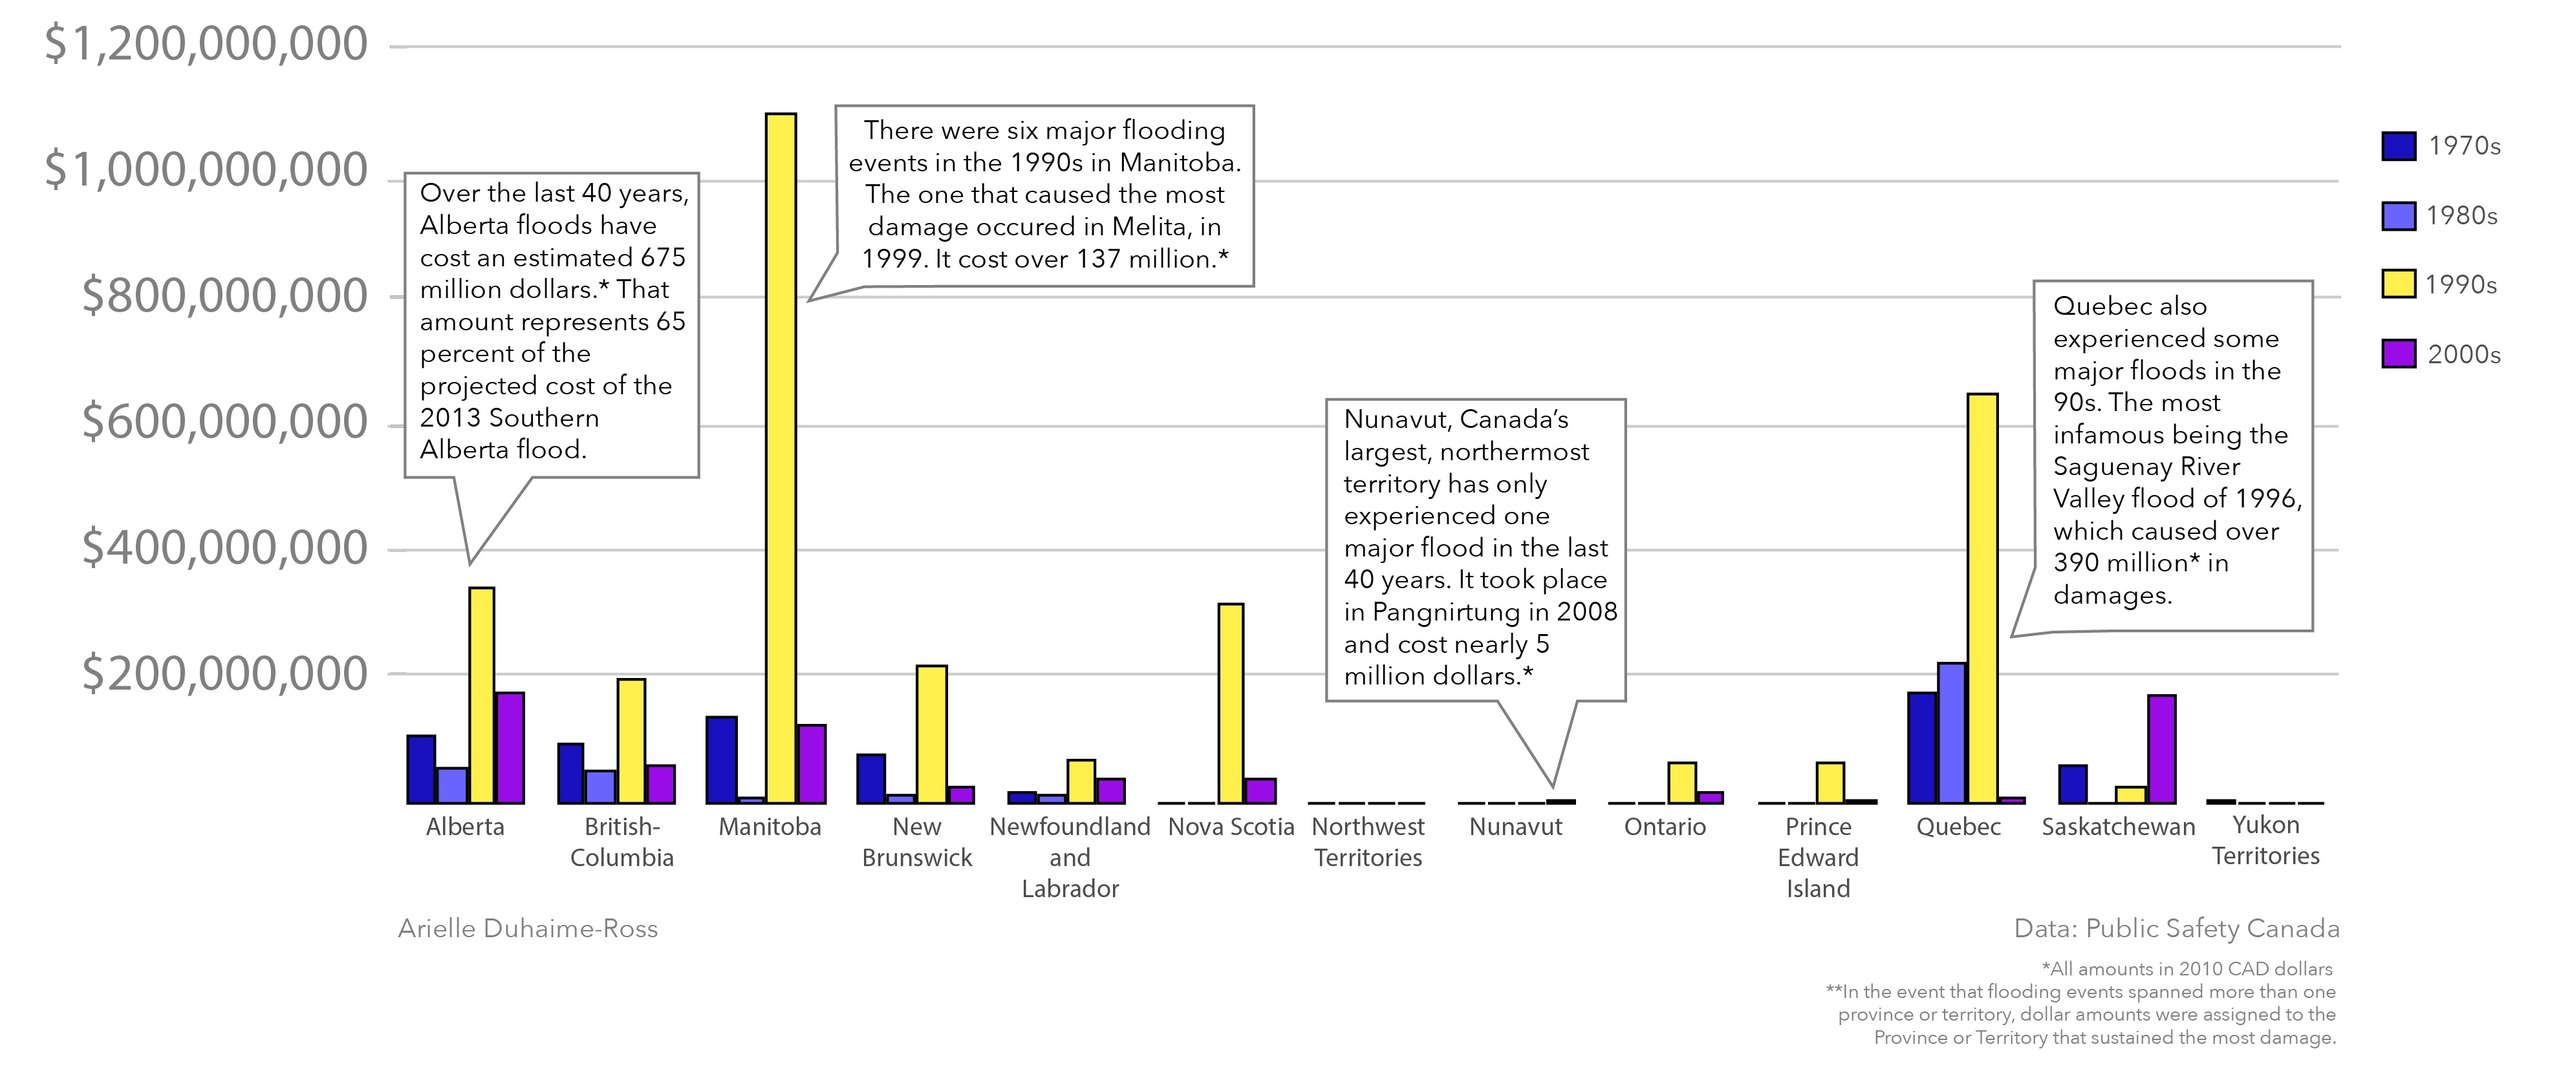
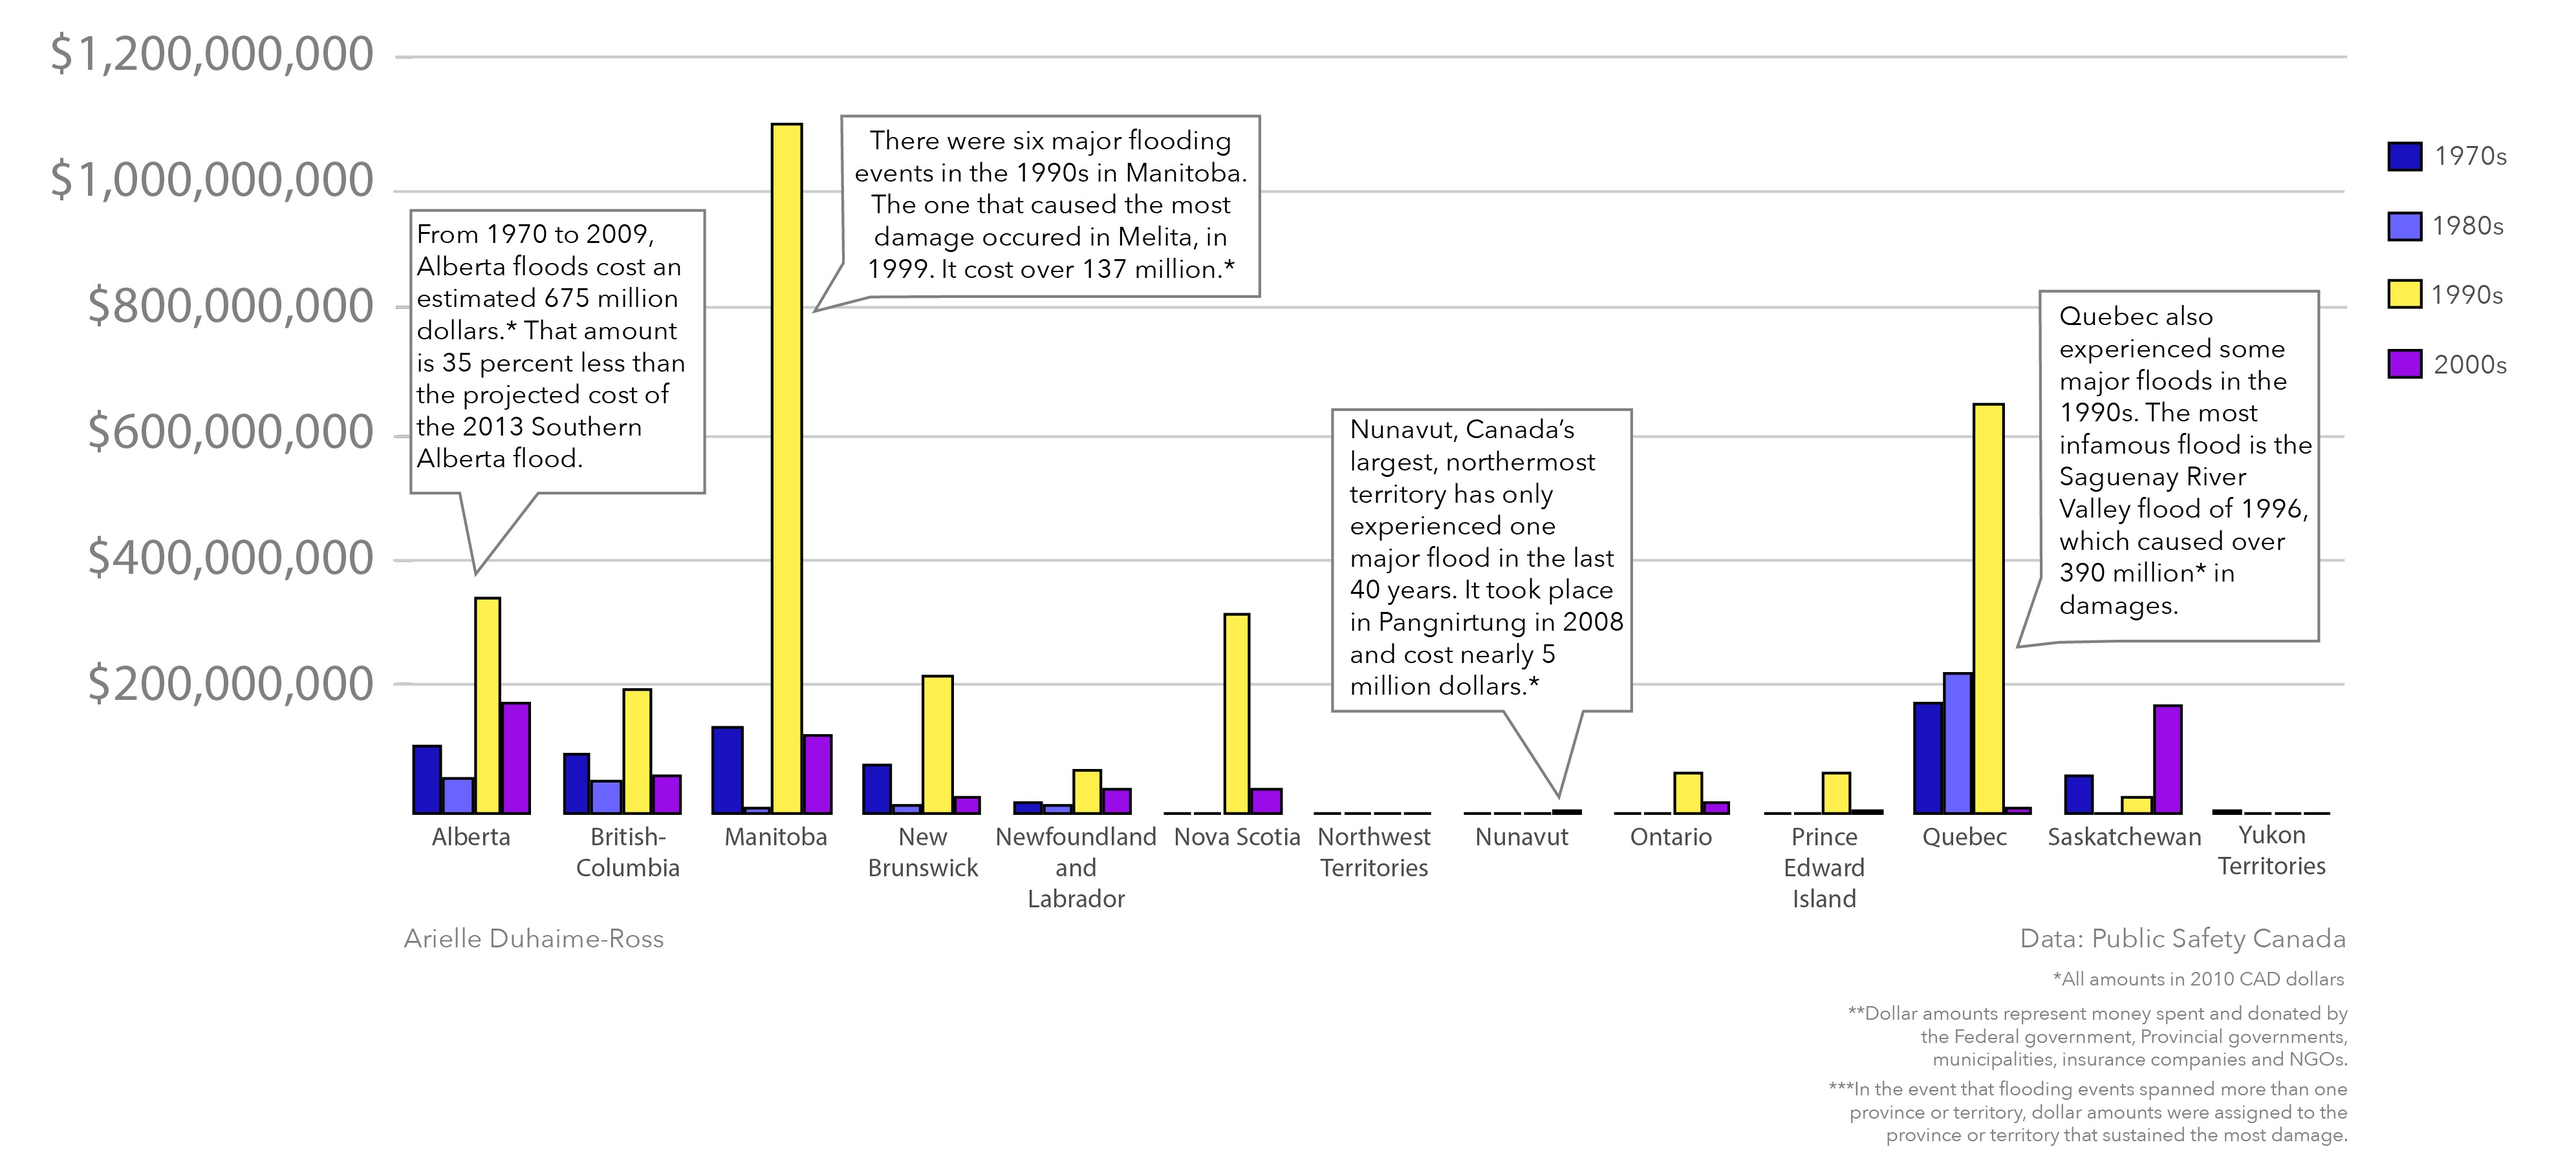
final version of class project

diff --git a/HowBadWas2013AlbertaFlood.html b/HowBadWas2013AlbertaFlood.html
@@ -35,10 +35,10 @@ margin-left:250px;
 <h1>Just how bad is the Southern Alberta flood?</h1>
 <h3 style="text-align:left;" style="width:700px;">The 2013 Southern Alberta flood has a projected cost of over one billion dollars. That's more than the total cost of Albertan floods since 1970.</h3>
 
-<p style="width:700px;" style="text-align:justify;">As relief efforts continue, it is becoming increasingly clear that the flood that took place in Alberta in June was like no other. It is, by far, <a href="http://business.financialpost.com/2013/06/26/albertas-worst-flood-in-history-risks-knocking-canadian-economy-off-course/">the worst flood in the province's history</a>. The Albertan government estimates that the total cost of the flood will <a href="http://www.cbc.ca/news/canada/edmonton/story/2013/06/27/business-alberta-flood.html">top one billion dollars</a>&mdash;35 percent more than the total cost of the floods that occured in the province between 1970 and 2010. Worse yet, <a href="http://www.theglobeandmail.com/news/national/history-suggests-it-may-take-time-for-ottawa-to-foot-flood-cleanup-bill/article12848684/">a report from the Globe and Mail</a> suggests that it will be many years before the province receives any of the relief money Ottawa sets aside for such disasters.</p>
+<p style="width:700px;" style="text-align:justify;">As relief efforts continue, it is becoming increasingly clear that the flood that took place in Alberta in June is, by far, <a href="http://business.financialpost.com/2013/06/26/albertas-worst-flood-in-history-risks-knocking-canadian-economy-off-course/">the worst flood in the province's history</a>. The Albertan government estimates that the total cost of the flood will <a href="http://www.cbc.ca/news/canada/edmonton/story/2013/06/27/business-alberta-flood.html">top one billion dollars</a>&mdash;35 percent more than the total cost of the floods that occured in the province from 1970 to 2009. Worse yet, <a href="http://www.theglobeandmail.com/news/national/history-suggests-it-may-take-time-for-ottawa-to-foot-flood-cleanup-bill/article12848684/">a report from the Globe and Mail</a> suggests that it will be many years before the province receives any of the relief money Ottawa sets aside for such disasters.</p>
 
 <h4><u>CHART: Total cost of Canadian floods by decade</u></h4>
-<p>The dollar amounts represent the money spent and donated by the Federal government, Provincial governments, municipalities, insurance companies and NGOs.</p>
+<p style="color:grey;">The dollar amounts represent money spent and donated by the Federal government, Provincial governments, municipalities, insurance companies and NGOs.</p>
 
 
 
